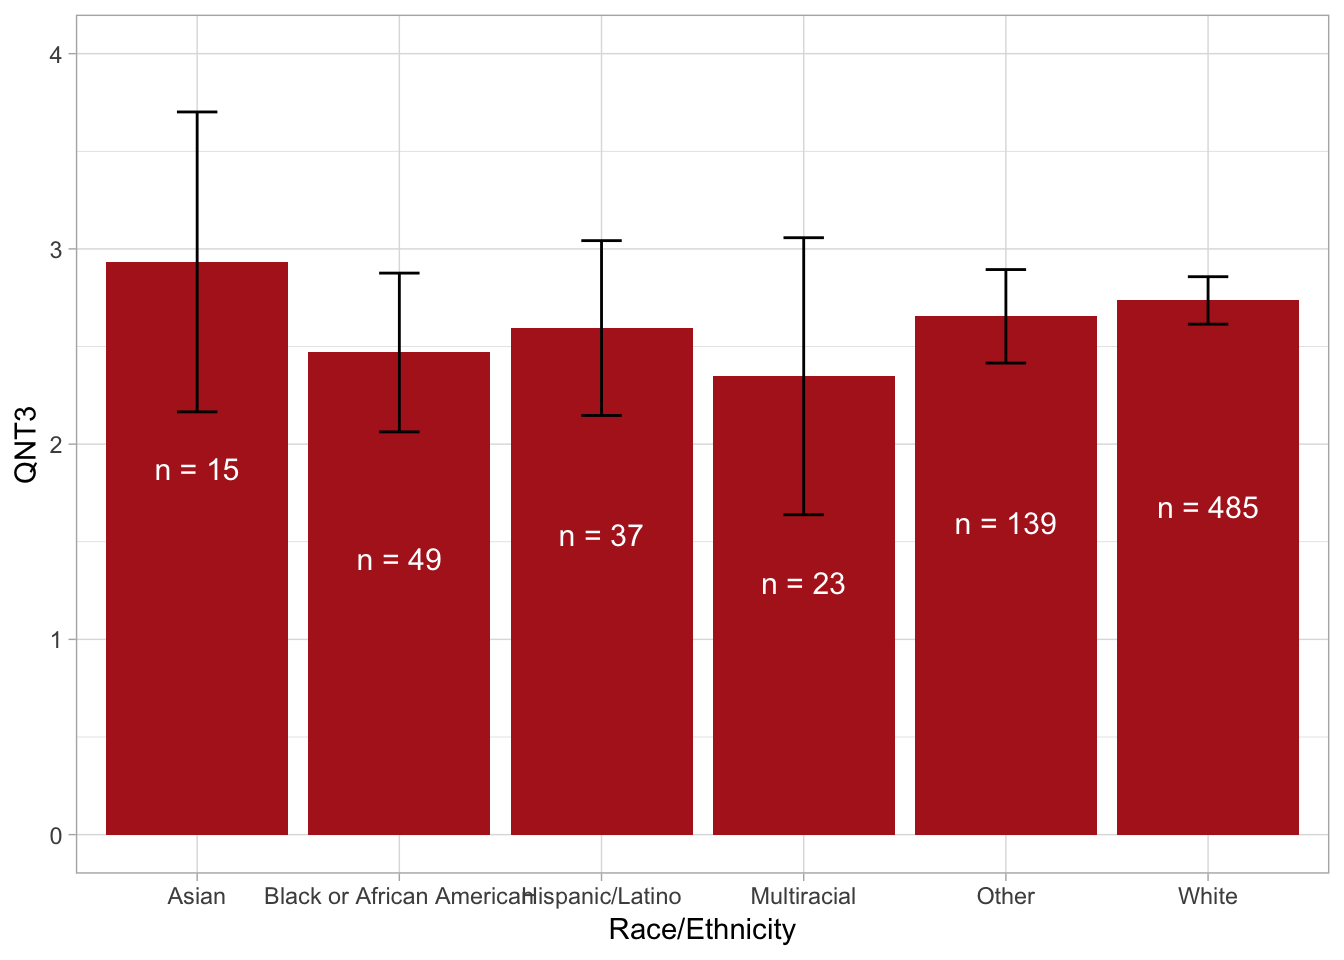
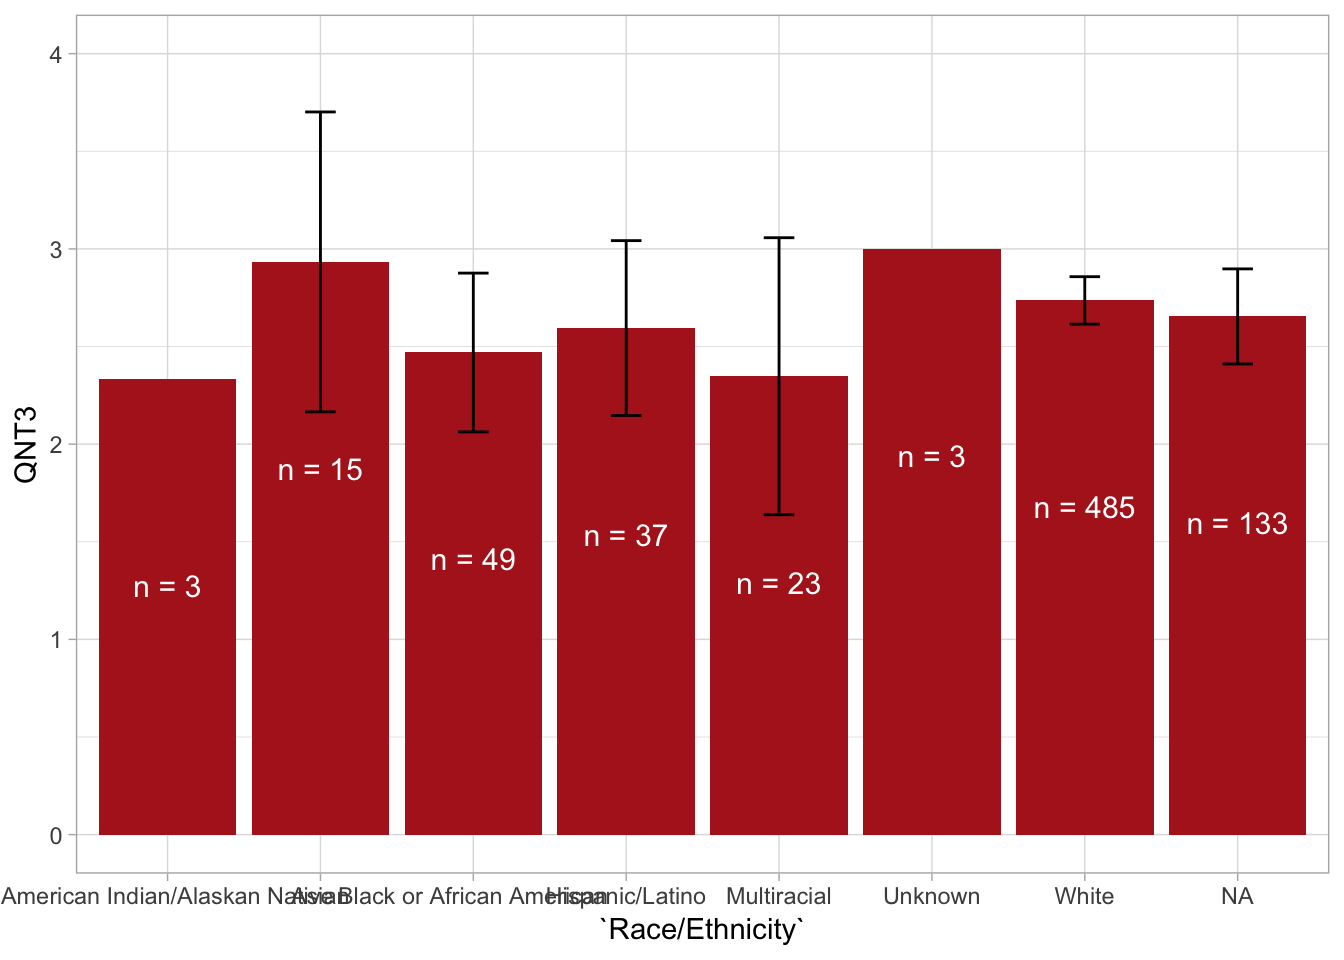
Generalized the form

diff --git a/docs/methods.html b/docs/methods.html
@@ -159,7 +159,7 @@
 </div>
 <div id="de-identification-of-student-data" class="section level2 unnumbered">
 <h2>De-identification of student data</h2>
-<p>Copies of the 21 data files were downloaded from TracDat. An R aggregator script was used to read the data from these data sheets and concatenate it into one data set in a destructive process – the downloaded copies were deleted in the process. Student names and identification numbers were redacted and each student’s entry was given a unique eight-digit identifier - the Record.Key. These keys may be used for longitudinal studies in the future. The algorithm used is kept in an encrypted site and shared with <em>no one</em>. The de-identified data set contains 748 student entries and is formatted as a comma-delimited text file (mathData.csv).</p>
+<p>Copies of the 21 data files were downloaded from TracDat. An R aggregator script was used to read the data from these data sheets and concatenate it into one data set in a destructive process – the downloaded copies were deleted in the process. Student names and identification numbers were redacted and each student’s entry was given a unique eight-digit identifier - the Record.Key. These keys may be used for longitudinal studies in the future. The algorithm used is kept in an encrypted site and shared with <em>no one</em>. The de-identified data set contains 748 student entries and is formatted as a comma-delimited text file (reportData.csv).</p>
 </div>
 <div id="data-provenance" class="section level2 unnumbered">
 <h2>Data provenance</h2>
@@ -175,8 +175,8 @@
 <p>**<a href="Platform:**" class="uri">Platform:**</a> x86_64-apple-darwin15.6.0 (64-bit)</p>
 <p><strong>locale:</strong> en_US.UTF-8||en_US.UTF-8||en_US.UTF-8||C||en_US.UTF-8||en_US.UTF-8</p>
 <p><strong>attached base packages:</strong> <em>grid</em>, <em>stats</em>, <em>graphics</em>, <em>grDevices</em>, <em>utils</em>, <em>datasets</em>, <em>methods</em> and <em>base</em></p>
-<p><strong>other attached packages:</strong> <em>forestplot(v.1.7.2)</em>, <em>checkmate(v.1.8.5)</em>, <em>magrittr(v.1.5)</em>, <em>weights(v.1.0)</em>, <em>mice(v.3.3.0)</em>, <em>gdata(v.2.18.0)</em>, <em>Hmisc(v.4.1-1)</em>, <em>Formula(v.1.2-3)</em>, <em>survival(v.2.42-6)</em>, <em>lattice(v.0.20-35)</em>, <em>moments(v.0.14)</em>, <em>modeest(v.2.1)</em>, <em>pander(v.0.6.2)</em>, <em>forcats(v.0.3.0)</em>, <em>stringr(v.1.3.1)</em>, <em>dplyr(v.0.7.6)</em>, <em>purrr(v.0.2.5)</em>, <em>readr(v.1.1.1)</em>, <em>tidyr(v.0.8.1)</em>, <em>tibble(v.1.4.2)</em>, <em>ggplot2(v.3.0.0)</em> and <em>tidyverse(v.1.2.1)</em></p>
-<p><strong>loaded via a namespace (and not attached):</strong> <em>httr(v.1.3.1)</em>, <em>jsonlite(v.1.5)</em>, <em>splines(v.3.5.1)</em>, <em>modelr(v.0.1.2)</em>, <em>gtools(v.3.8.1)</em>, <em>assertthat(v.0.2.0)</em>, <em>highr(v.0.7)</em>, <em>latticeExtra(v.0.6-28)</em>, <em>cellranger(v.1.1.0)</em>, <em>yaml(v.2.2.0)</em>, <em>pillar(v.1.3.0)</em>, <em>backports(v.1.1.2)</em>, <em>glue(v.1.3.0)</em>, <em>digest(v.0.6.17)</em>, <em>RColorBrewer(v.1.1-2)</em>, <em>minqa(v.1.2.4)</em>, <em>rvest(v.0.3.2)</em>, <em>colorspace(v.1.3-2)</em>, <em>htmltools(v.0.3.6)</em>, <em>Matrix(v.1.2-14)</em>, <em>plyr(v.1.8.4)</em>, <em>pkgconfig(v.2.0.2)</em>, <em>broom(v.0.5.0)</em>, <em>haven(v.1.1.2)</em>, <em>bookdown(v.0.7)</em>, <em>scales(v.1.0.0)</em>, <em>lme4(v.1.1-18-1)</em>, <em>htmlTable(v.1.12)</em>, <em>withr(v.2.1.2)</em>, <em>pan(v.1.6)</em>, <em>nnet(v.7.3-12)</em>, <em>lazyeval(v.0.2.1)</em>, <em>cli(v.1.0.0)</em>, <em>crayon(v.1.3.4)</em>, <em>readxl(v.1.1.0)</em>, <em>mitml(v.0.3-6)</em>, <em>evaluate(v.0.11)</em>, <em>nlme(v.3.1-137)</em>, <em>MASS(v.7.3-50)</em>, <em>xml2(v.1.2.0)</em>, <em>foreign(v.0.8-71)</em>, <em>tools(v.3.5.1)</em>, <em>data.table(v.1.11.8)</em>, <em>hms(v.0.4.2)</em>, <em>munsell(v.0.5.0)</em>, <em>cluster(v.2.0.7-1)</em>, <em>bindrcpp(v.0.2.2)</em>, <em>compiler(v.3.5.1)</em>, <em>rlang(v.0.2.2)</em>, <em>nloptr(v.1.2.1)</em>, <em>rstudioapi(v.0.7)</em>, <em>htmlwidgets(v.1.3)</em>, <em>base64enc(v.0.1-3)</em>, <em>rmarkdown(v.1.10)</em>, <em>gtable(v.0.2.0)</em>, <em>R6(v.2.2.2)</em>, <em>gridExtra(v.2.3)</em>, <em>lubridate(v.1.7.4)</em>, <em>knitr(v.1.20)</em>, <em>bindr(v.0.1.1)</em>, <em>jomo(v.2.6-4)</em>, <em>rprojroot(v.1.3-2)</em>, <em>stringi(v.1.2.4)</em>, <em>parallel(v.3.5.1)</em>, <em>Rcpp(v.0.12.18)</em>, <em>rpart(v.4.1-13)</em>, <em>acepack(v.1.4.1)</em>, <em>tidyselect(v.0.2.4)</em> and <em>xfun(v.0.3)</em></p>
+<p><strong>other attached packages:</strong> <em>bindrcpp(v.0.2.2)</em>, <em>forestplot(v.1.7.2)</em>, <em>checkmate(v.1.8.5)</em>, <em>magrittr(v.1.5)</em>, <em>weights(v.1.0)</em>, <em>mice(v.3.3.0)</em>, <em>gdata(v.2.18.0)</em>, <em>Hmisc(v.4.1-1)</em>, <em>Formula(v.1.2-3)</em>, <em>survival(v.2.43-1)</em>, <em>lattice(v.0.20-38)</em>, <em>moments(v.0.14)</em>, <em>pander(v.0.6.3)</em>, <em>forcats(v.0.3.0)</em>, <em>stringr(v.1.3.1)</em>, <em>dplyr(v.0.7.8)</em>, <em>purrr(v.0.2.5)</em>, <em>readr(v.1.1.1)</em>, <em>tidyr(v.0.8.2)</em>, <em>tibble(v.1.4.2)</em>, <em>ggplot2(v.3.1.0)</em> and <em>tidyverse(v.1.2.1)</em></p>
+<p><strong>loaded via a namespace (and not attached):</strong> <em>httr(v.1.3.1)</em>, <em>jsonlite(v.1.5)</em>, <em>splines(v.3.5.1)</em>, <em>modelr(v.0.1.2)</em>, <em>gtools(v.3.8.1)</em>, <em>assertthat(v.0.2.0)</em>, <em>highr(v.0.7)</em>, <em>latticeExtra(v.0.6-28)</em>, <em>cellranger(v.1.1.0)</em>, <em>yaml(v.2.2.0)</em>, <em>pillar(v.1.3.0)</em>, <em>backports(v.1.1.2)</em>, <em>glue(v.1.3.0)</em>, <em>digest(v.0.6.18)</em>, <em>RColorBrewer(v.1.1-2)</em>, <em>rvest(v.0.3.2)</em>, <em>minqa(v.1.2.4)</em>, <em>colorspace(v.1.3-2)</em>, <em>htmltools(v.0.3.6)</em>, <em>Matrix(v.1.2-15)</em>, <em>plyr(v.1.8.4)</em>, <em>pkgconfig(v.2.0.2)</em>, <em>broom(v.0.5.0)</em>, <em>haven(v.1.1.2)</em>, <em>bookdown(v.0.7)</em>, <em>scales(v.1.0.0)</em>, <em>lme4(v.1.1-19)</em>, <em>htmlTable(v.1.12)</em>, <em>withr(v.2.1.2)</em>, <em>pan(v.1.6)</em>, <em>nnet(v.7.3-12)</em>, <em>lazyeval(v.0.2.1)</em>, <em>cli(v.1.0.1)</em>, <em>crayon(v.1.3.4)</em>, <em>readxl(v.1.1.0)</em>, <em>mitml(v.0.3-6)</em>, <em>evaluate(v.0.12)</em>, <em>nlme(v.3.1-137)</em>, <em>MASS(v.7.3-51.1)</em>, <em>xml2(v.1.2.0)</em>, <em>foreign(v.0.8-71)</em>, <em>tools(v.3.5.1)</em>, <em>data.table(v.1.11.8)</em>, <em>hms(v.0.4.2)</em>, <em>munsell(v.0.5.0)</em>, <em>cluster(v.2.0.7-1)</em>, <em>compiler(v.3.5.1)</em>, <em>rlang(v.0.3.0.1)</em>, <em>nloptr(v.1.2.1)</em>, <em>rstudioapi(v.0.8)</em>, <em>htmlwidgets(v.1.3)</em>, <em>base64enc(v.0.1-3)</em>, <em>rmarkdown(v.1.10)</em>, <em>gtable(v.0.2.0)</em>, <em>R6(v.2.3.0)</em>, <em>gridExtra(v.2.3)</em>, <em>lubridate(v.1.7.4)</em>, <em>knitr(v.1.20)</em>, <em>bindr(v.0.1.1)</em>, <em>jomo(v.2.6-5)</em>, <em>rprojroot(v.1.3-2)</em>, <em>stringi(v.1.2.4)</em>, <em>parallel(v.3.5.1)</em>, <em>Rcpp(v.1.0.0)</em>, <em>rpart(v.4.1-13)</em>, <em>acepack(v.1.4.1)</em>, <em>tidyselect(v.0.2.5)</em> and <em>xfun(v.0.4)</em></p>
 </div>
 <div id="processing-instructions" class="section level3 unnumbered">
 <h3>Processing instructions</h3>

diff --git a/docs/results.html b/docs/results.html
@@ -340,17 +340,17 @@ Figure 7: A comparison of student performance on QNT3 by student race. Error bar
 <tbody>
 <tr class="odd">
 <td><code>Race/Ethnicity</code></td>
-<td align="right">5</td>
-<td align="right">7.504381</td>
-<td align="right">1.500876</td>
-<td align="right">0.7804591</td>
-<td align="right">0.5639121</td>
+<td align="right">6</td>
+<td align="right">7.980889</td>
+<td align="right">1.330148</td>
+<td align="right">0.6970856</td>
+<td align="right">0.652078</td>
 </tr>
 <tr class="even">
 <td>Residuals</td>
-<td align="right">742</td>
-<td align="right">1426.916742</td>
-<td align="right">1.923068</td>
+<td align="right">608</td>
+<td align="right">1160.158949</td>
+<td align="right">1.908156</td>
 <td align="right">NA</td>
 <td align="right">NA</td>
 </tr>
